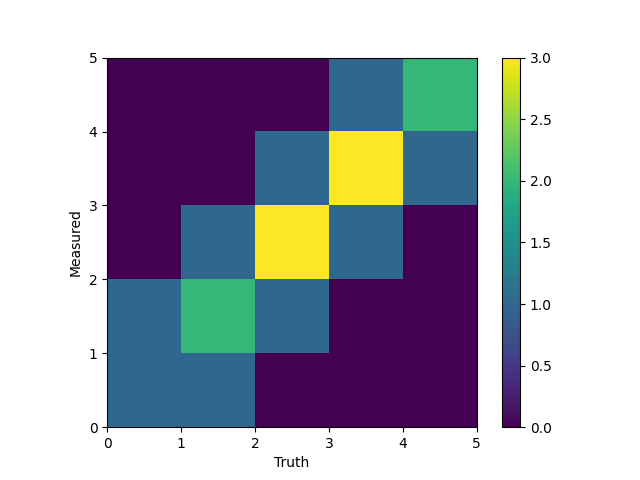
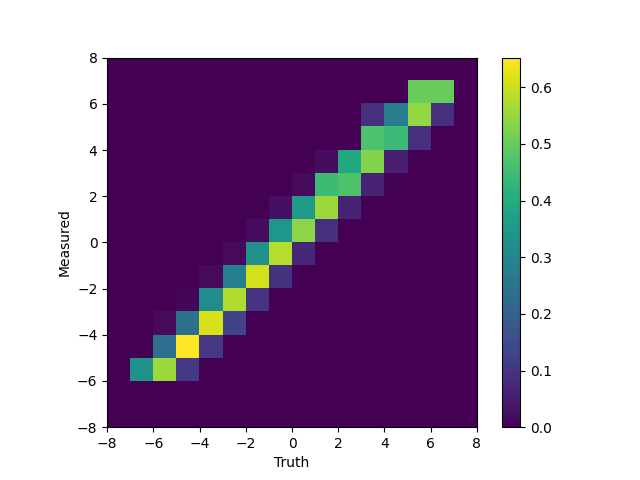
FIx numpy example with correct simulated data

diff --git a/examples/numpy_simulated_annealing.py b/examples/numpy_simulated_annealing.py
@@ -22,26 +22,30 @@ from QUnfold import QUnfoldPlotter
 def main():
 
     # Data variables
-    max_bin = 5
-    min_bin = 0
-    bins = 5
+    num_entries = 4000
+    num_bins = 16
+    min_bin = -8.0
+    max_bin = 8.0
 
-    # Generic data
-    truth = np.array([5, 8, 12, 6, 2])
-    meas = np.array([6, 9, 13, 5, 3])
-    response = np.array(
-        [
-            [1, 1, 0, 0, 0],
-            [1, 2, 1, 0, 0],
-            [0, 1, 3, 1, 0],
-            [0, 0, 1, 3, 1],
-            [0, 0, 0, 1, 2],
-        ]
-    )
+    # Generate random true data
+    true_data = np.random.normal(loc=0.0, scale=1.8, size=num_entries)
+
+    # Apply gaussian smearing to get measured data
+    smearing = np.random.normal(loc=-0.3, scale=0.5, size=num_entries)
+    meas_data = true_data + smearing
+
+    # Generate truth and measured histograms
+    bins = np.linspace(min_bin, max_bin, num_bins + 1)
+    truth, _ = np.histogram(true_data, bins=bins)
+    meas, _ = np.histogram(meas_data, bins=bins)
+
+    # Generate and normalize response matrix
+    response, _, _ = np.histogram2d(meas_data, true_data, bins=bins)
+    response /= truth + 1e-6
 
     # Unfold with simulated annealing
-    unfolder = QUnfoldQUBO(response=response, meas=meas, lam=0.1)
-    unfolded_SA = unfolder.solve_simulated_annealing(num_reads=200)
+    unfolder = QUnfoldQUBO(response=response, meas=meas, lam=0.01)
+    unfolded_SA = unfolder.solve_simulated_annealing(num_reads=100)
 
     # Create results dir
     if not os.path.exists("img/examples/numpy_simulated_annealing"):
@@ -53,7 +57,7 @@ def main():
         measured=meas,
         truth=truth,
         unfolded=unfolded_SA,
-        binning=np.linspace(min_bin, max_bin, bins + 1),
+        binning=bins,
     )
     plotter.saveResponse("img/examples/numpy_simulated_annealing/response.png")
     plotter.savePlot("img/examples/numpy_simulated_annealing/comparison.png", "SA")
